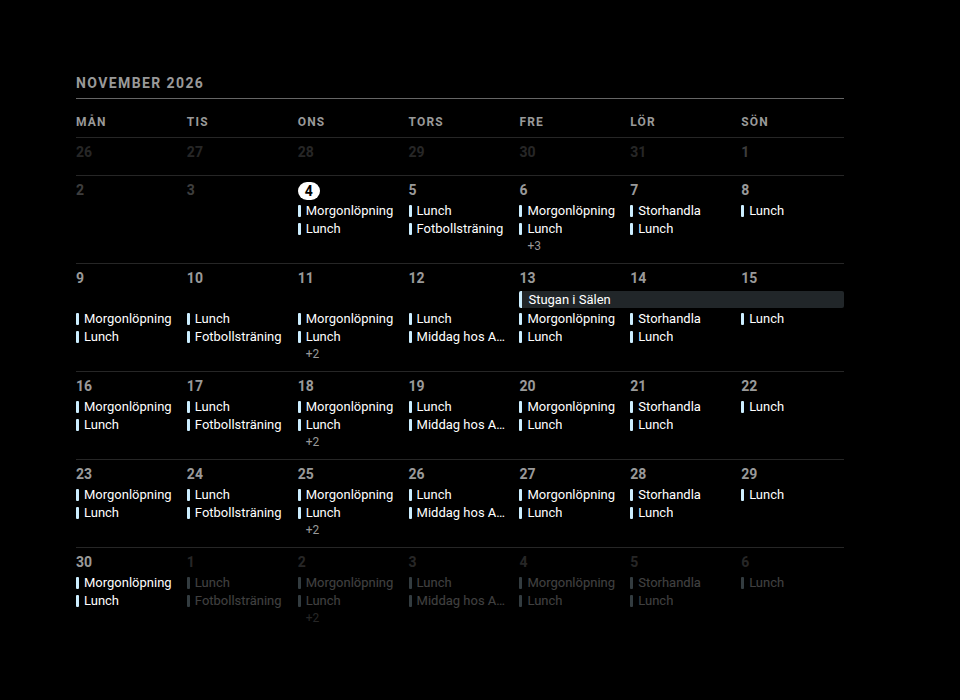
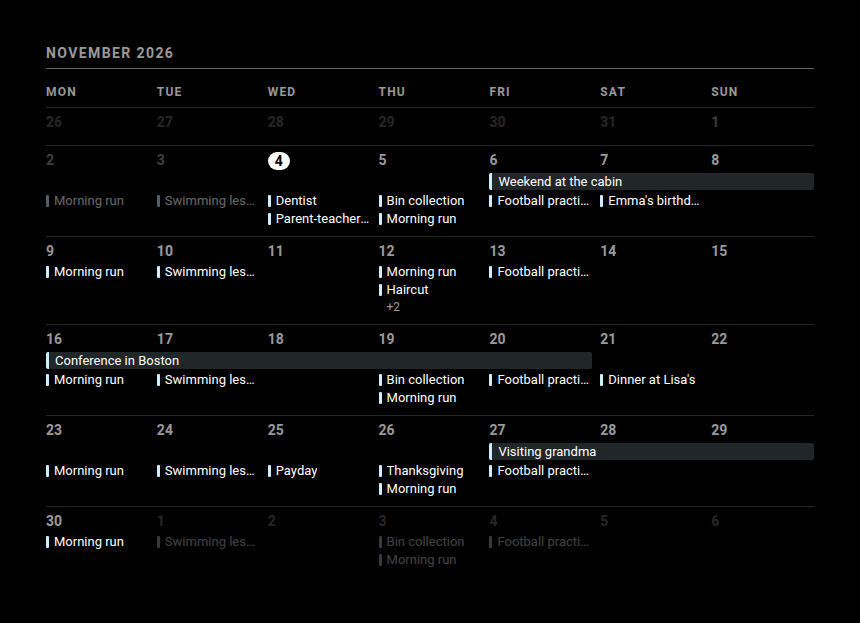
docs: README screenshots of the week and month view in English
Claude-Session: https://claude.ai/code/session_01PmpmuMJby8FHBqLLbAhRWN

diff --git a/README.md b/README.md
@@ -19,6 +19,10 @@ Developing it: `uv run pytest` runs its tests, and `uvx mirrordash-sdk validate 
 
 ![Calendar Widget Screenshot](screenshot.png)
 
+The week view:
+
+![Calendar week view](screenshot-week.png)
+
 The month view:
 
 ![Calendar month view](screenshot-month.png)
